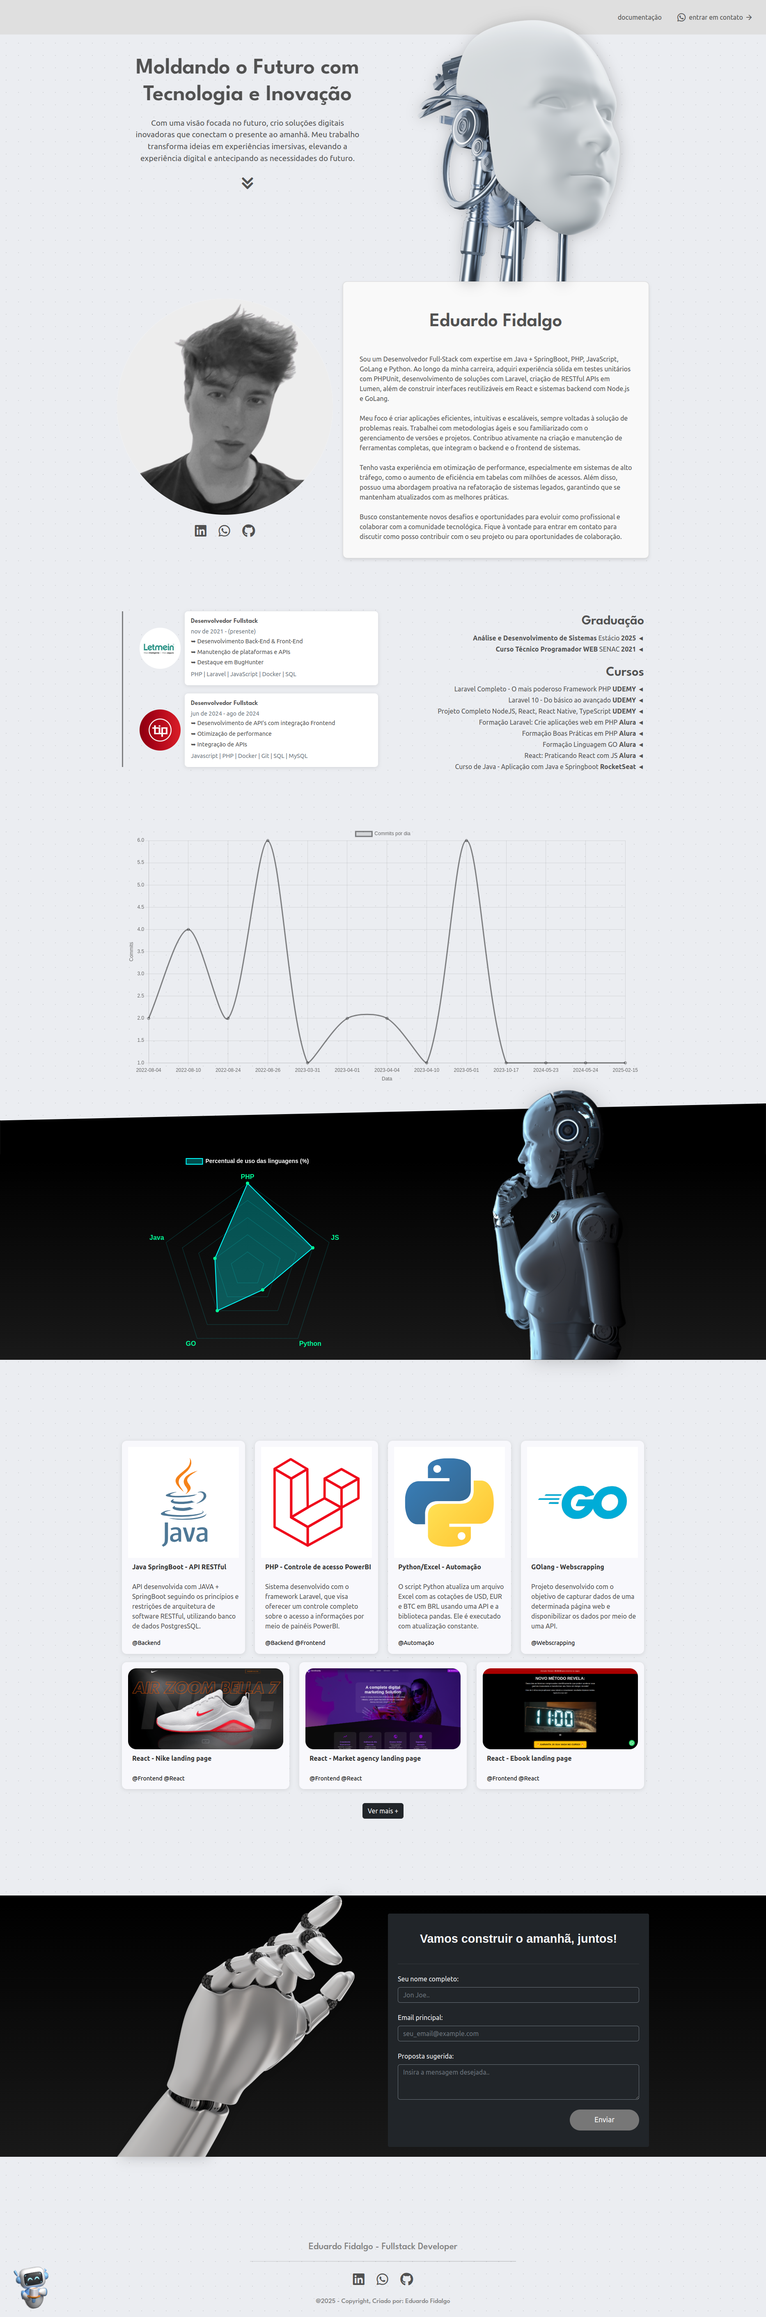
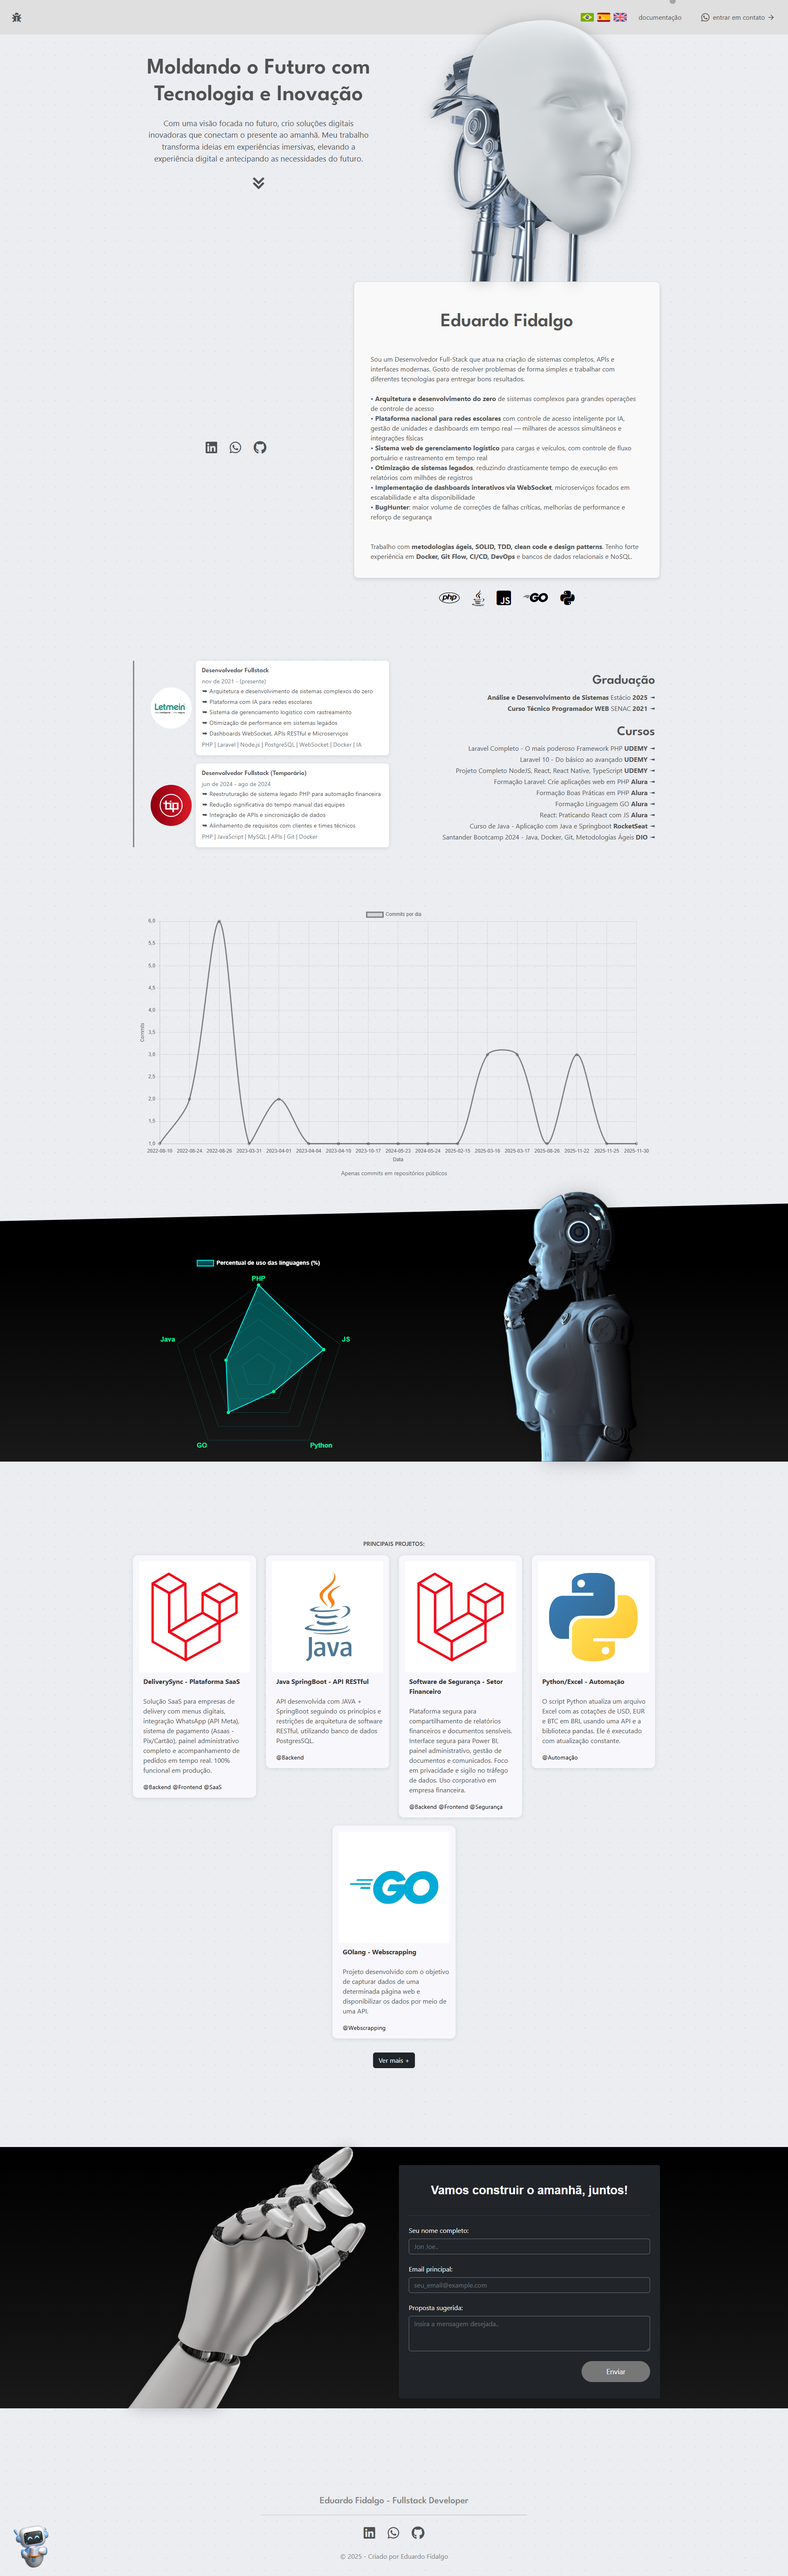
update: improving and updating documentation

diff --git a/documentation.html b/documentation.html
@@ -89,38 +89,59 @@
             <h2 class="section-title">1. Introdução</h2>
             <img src="./preview.png" alt="Preview do Projeto" class="preview-img">
             <p>Este portfólio foi desenvolvido para refletir um design moderno, minimalista e futurista, destacando
-                minha carreira, projetos e habilidades.</p>
+                minha carreira, projetos e habilidades com suporte completo a múltiplos idiomas.</p>
             <p>As principais tecnologias utilizadas foram:</p>
             <ul>
-                <li><strong>Bootstrap 5.3.x</strong> - Para estilização responsiva e componentes.</li>
+                <li><strong>Bootstrap 5.2.3</strong> - Para estilização responsiva e componentes.</li>
                 <li><strong>jQuery 3.6.x</strong> - Para manipulação dinâmica do DOM e interações.</li>
-                <li><strong>CSS</strong> - Para customizações avançadas de estilo.</li>
-                <li><strong>JavaScript</strong> - Para o chatbot interativo e outras funções.</li>
+                <li><strong>Chart.js</strong> - Para visualização de dados em gráficos interativos.</li>
+                <li><strong>GSAP</strong> - Para animações avançadas do cursor customizado.</li>
+                <li><strong>Font Awesome 5.10</strong> - Para ícones e elementos visuais.</li>
+                <li><strong>CSS3 & JavaScript ES6</strong> - Para customizações avançadas e interatividade.</li>
+                <li><strong>Sistema de Tradução Multilíngue</strong> - Suporte para Português, Espanhol e Inglês.</li>
             </ul>
         </section>
 
         <section>
             <h2 class="section-title">2. Instalação</h2>
             <p>Para rodar o projeto localmente, siga os passos abaixo:</p>
-            <pre>git clone https://github.com/seu-repositorio/portfolio.git
-cd portfolio
-open index.html</pre>
+            <pre>git clone https://github.com/EduardoFidalgo/portifolio.git
+cd portifolio
+# Abra o index.html no seu navegador preferido</pre>
+            <p><strong>Nota:</strong> Não é necessário instalar dependências, pois todas as bibliotecas são carregadas via CDN.</p>
         </section>
 
         <section>
             <h2 class="section-title">3. Estrutura do Projeto</h2>
             <p>O projeto segue a seguinte organização:</p>
             <pre>
-portfolio/
-│── index.html  (Página principal)
-│── assets/
-│   ├── css/
-│   │   ├── style.css  (Estilos customizados)
-│   ├── js/
-│   │   ├── script.js  (Interações e chatbot)
-│   ├── img/
-│── preview.png (Imagem de preview do projeto)
-│── README.md  (Documentação do projeto)
+portifolio/
+│── index.html              (Página principal do portfólio)
+│── documentation.html      (Esta documentação)
+│── robots.txt             (Configuração para crawlers)
+│── sitemap.xml            (Mapa do site para SEO)
+│
+│── scripts/
+│   └── scripts.js         (Lógica do chatbot, traduções e gráficos)
+│
+│── styles/
+│   └── styles.css         (Estilos customizados)
+│
+│── img/
+│   ├── robot.svg          (Imagem hero)
+│   ├── strangeRobot.svg   (Imagem radar section)
+│   ├── handGod.svg        (Imagem formulário)
+│   ├── IA.svg             (Ícone do chatbot)
+│   ├── br-icon.png        (Bandeira Brasil)
+│   ├── sp-icon.png        (Bandeira Espanha)
+│   ├── en-icon.png        (Bandeira EUA)
+│   ├── letmein.png        (Logo empresa)
+│   ├── tip.png            (Logo empresa)
+│   ├── LAR.svg            (Ícone Laravel)
+│   ├── JAVA.svg           (Ícone Java)
+│   ├── PY.svg             (Ícone Python)
+│   ├── GO.svg             (Ícone Golang)
+│   └── favicon.png        (Favicon do site)
             </pre>
         </section>
 
@@ -128,32 +149,199 @@ portfolio/
             <h2 class="section-title">4. Funcionalidades</h2>
             <p>Principais recursos do portfólio:</p>
             <ul>
-                <li>📌 <strong>Layout futurista</strong> com design sofisticado.</li>
-                <li>🤖 <strong>Chatbot interativo</strong> para simular entrevistas.</li>
-                <li>⚡ <strong>SEO otimizado</strong> para melhor rankeamento.</li>
-                <li>📱 <strong>Responsivo</strong> para todos os dispositivos.</li>
+                <li>🌍 <strong>Sistema Multilíngue</strong> - Suporte completo para Português, Espanhol e Inglês com persistência de preferência.</li>
+                <li>🤖 <strong>Chatbot Interativo</strong> - Perguntas e respostas predefinidas em 3 idiomas com interface dinâmica.</li>
+                <li>📊 <strong>Gráficos Interativos</strong> - Visualização de commits no GitHub e percentual de uso de linguagens com Chart.js.</li>
+                <li>🎨 <strong>Cursor Customizado</strong> - Animação fluida com GSAP e efeito de múltiplas bolinhas.</li>
+                <li>📱 <strong>Design Responsivo</strong> - Layout adaptável para todos os dispositivos (mobile, tablet, desktop).</li>
+                <li>⚡ <strong>SEO Otimizado</strong> - Meta tags completas, Open Graph, Twitter Cards e sitemap.xml.</li>
+                <li>💾 <strong>LocalStorage</strong> - Salva preferências do usuário (idioma, mensagens visualizadas).</li>
+                <li>📝 <strong>Formulário de Contato</strong> - Integração com Formspree para receber mensagens.</li>
+                <li>🐛 <strong>Sistema de Feedback</strong> - Modal para reportar bugs e sugestões.</li>
+                <li>🎯 <strong>Timeline de Experiência</strong> - Visualização cronológica da carreira profissional.</li>
+                <li>🚀 <strong>Showcasing de Projetos</strong> - Cards interativos com descrição de projetos principais.</li>
             </ul>
         </section>
 
         <section>
-            <h2 class="section-title">5. Customização</h2>
-            <p>Para alterar o esquema de cores, edite o arquivo <code>assets/css/style.css</code>:</p>
+            <h2 class="section-title">5. Sistema de Tradução</h2>
+            <p>O portfólio implementa um sistema completo de internacionalização (i18n) que permite alternar entre 3 idiomas:</p>
+            
+            <h4>5.1. Idiomas Suportados</h4>
+            <ul>
+                <li>🇧🇷 <strong>Português (PT)</strong> - Idioma padrão</li>
+                <li>🇪🇸 <strong>Espanhol (ES)</strong></li>
+                <li>🇺🇸 <strong>Inglês (EN)</strong></li>
+            </ul>
+
+            <h4>5.2. Elementos Traduzidos</h4>
+            <p>Todos os textos principais são traduzidos automaticamente:</p>
+            <ul>
+                <li>✅ Mensagem de loading</li>
+                <li>✅ Mensagem flutuante de feedback</li>
+                <li>✅ Menu de navegação (documentação, contato)</li>
+                <li>✅ Hero section (título e descrição)</li>
+                <li>✅ Seção "Sobre mim"</li>
+                <li>✅ Experiências profissionais (LETMEIN e TIP)</li>
+                <li>✅ Títulos de seções (Graduação, Cursos, Projetos)</li>
+                <li>✅ Descrições dos 5 projetos principais</li>
+                <li>✅ Formulário de contato (labels e botões)</li>
+                <li>✅ Modal de feedback</li>
+                <li>✅ Chatbot (saudação, perguntas e respostas)</li>
+                <li>✅ Gráfico radar (label "Percentual de uso das linguagens")</li>
+                <li>✅ Nota sobre commits públicos</li>
+            </ul>
+
+            <h4>5.3. Como Funciona</h4>
+            <p>O sistema usa atributos HTML customizados e JavaScript:</p>
             <pre>
-                :root {
-                    --primary-color: #6c757d;
-                    --background-color: #f8f9fa;
-                    --text-color: #333;
-                }
+// HTML
+&lt;h1 data-lang="hero-title"&gt;Texto em português&lt;/h1&gt;
+
+// JavaScript - objeto de traduções
+const translations = {
+    pt: { "hero-title": "Moldando o Futuro..." },
+    es: { "hero-title": "Moldeando el Futuro..." },
+    en: { "hero-title": "Shaping the Future..." }
+};
+
+// Função que aplica traduções
+function changeLanguage(lang) {
+    document.querySelectorAll('[data-lang]').forEach(el => {
+        el.innerHTML = translations[lang][el.getAttribute('data-lang')];
+    });
+}
             </pre>
+
+            <h4>5.4. Persistência</h4>
+            <p>A preferência de idioma é salva no <code>localStorage</code> do navegador e aplicada automaticamente nas próximas visitas.</p>
         </section>
 
         <section>
-            <h2 class="section-title">6. SEO e Performance</h2>
-            <p>Para garantir um bom desempenho e ranqueamento, foram aplicadas as seguintes práticas:</p>
+            <h2 class="section-title">6. Chatbot Interativo</h2>
+            <p>O chatbot oferece uma experiência interativa para responder perguntas frequentes sobre habilidades, projetos e experiência.</p>
+            
+            <h4>6.1. Características</h4>
             <ul>
-                <li>✅ Uso de meta tags otimizadas (<code>&lt;meta name="description" ...&gt;</code>).</li>
-                <li>✅ Estrutura semântica do HTML.</li>
-                <li>✅ Código limpo e leve para carregamento rápido.</li>
+                <li>💬 10 perguntas predefinidas em cada idioma</li>
+                <li>🔍 Sistema de busca/filtro de perguntas</li>
+                <li>🎯 Respostas contextualizadas e detalhadas</li>
+                <li>🌐 Totalmente traduzido para PT, ES e EN</li>
+                <li>📱 Interface responsiva com botão flutuante</li>
+            </ul>
+
+            <h4>6.2. Perguntas Disponíveis</h4>
+            <ol>
+                <li>Principais habilidades como desenvolvedor Full-Stack</li>
+                <li>Otimização de performance em sistemas de alto tráfego</li>
+                <li>Metodologias e ferramentas utilizadas</li>
+                <li>Desenvolvimento e manutenção de APIs</li>
+                <li>Automação de processos</li>
+                <li>Tecnologias para Front-End</li>
+                <li>Últimos projetos desenvolvidos</li>
+                <li>Experiência com integrações de sistemas</li>
+                <li>Certificações e formações</li>
+                <li>Links para mais informações</li>
+            </ol>
+        </section>
+
+        <section>
+            <h2 class="section-title">7. Gráficos e Visualizações</h2>
+            
+            <h4>7.1. Gráfico de Commits do GitHub</h4>
+            <p>Exibe um gráfico de linha com a frequência de commits nos últimos dias:</p>
+            <ul>
+                <li>📈 Usa a API do GitHub para buscar commits</li>
+                <li>📊 Renderizado com Chart.js</li>
+                <li>⏱ Atualização em tempo real</li>
+                <li>📝 Nota: "Apenas commits em repositórios públicos" (traduzida)</li>
+            </ul>
+
+            <h4>7.2. Gráfico Radar de Linguagens</h4>
+            <p>Visualização percentual do uso de linguagens de programação:</p>
+            <ul>
+                <li>🎯 PHP: 100%</li>
+                <li>🎯 JavaScript: 80%</li>
+                <li>🎯 GO: 60%</li>
+                <li>🎯 Java: 40%</li>
+                <li>🎯 Python: 30%</li>
+            </ul>
+            <p>O label do gráfico é traduzido automaticamente baseado no idioma selecionado.</p>
+        </section>
+
+        <section>
+            <h2 class="section-title">8. Customização</h2>
+            <p>Ajuste o portfólio ao seu estilo modificando os seguintes arquivos:</p>
+            
+            <h4>8.1. Cores e Estilo Visual</h4>
+            <p>Edite <code>styles/styles.css</code> para personalizar:</p>
+            <ul>
+                <li><strong>Cores principais:</strong> <code>#8a2be2</code> (roxo vibrante), <code>#00d9ff</code> (azul ciano)</li>
+                <li><strong>Gradientes:</strong> Backgrounds com efeito linear gradient</li>
+                <li><strong>Cursor customizado:</strong> Classes <code>.custom-cursor</code> e <code>.cursor-dot</code></li>
+                <li><strong>Animações:</strong> Transitions e hover effects</li>
+                <li><strong>Cards e botões:</strong> Border radius, sombras, glassmorphism</li>
+            </ul>
+
+            <h4>8.2. Conteúdo e Traduções</h4>
+            <p>Edite <code>scripts/scripts.js</code> para modificar:</p>
+            <ul>
+                <li><strong>Objeto translations:</strong> Adicione ou altere textos em PT, ES, EN</li>
+                <li><strong>Chatbot QA:</strong> Modifique perguntas/respostas no objeto <code>chatbotQA</code></li>
+                <li><strong>Dados dos gráficos:</strong> Percentuais do radar chart, fonte de commits</li>
+                <li><strong>Adicionar idioma:</strong> Crie nova chave no objeto translations (ex: <code>fr: {...}</code>)</li>
+            </ul>
+
+            <h4>8.3. Informações Pessoais</h4>
+            <p>Edite <code>index.html</code> para atualizar:</p>
+            <ul>
+                <li>Nome, título profissional e foto de perfil</li>
+                <li>Timeline de experiências profissionais</li>
+                <li>Projetos em destaque (título, descrição, links)</li>
+                <li>Links de redes sociais (LinkedIn, GitHub, etc.)</li>
+                <li>URL do formulário de contato (Formspree ou alternativa)</li>
+            </ul>
+
+            <h4>8.4. Ícones de Idioma</h4>
+            <p>Substitua os ícones em <code>img/</code>:</p>
+            <ul>
+                <li><code>br-icon.png</code> - Bandeira do Brasil (Português)</li>
+                <li><code>sp-icon.png</code> - Bandeira da Espanha (Espanhol)</li>
+                <li><code>en-icon.png</code> - Bandeira dos EUA/UK (Inglês)</li>
+            </ul>
+            <p>Recomendação: Use imagens PNG transparentes de 32x32px ou 48x48px para melhor qualidade.</p>
+        </section>
+
+        <section>
+            <h2 class="section-title">9. SEO e Performance</h2>
+            <p>Para garantir um bom desempenho e ranqueamento, foram aplicadas as seguintes práticas:</p>
+            
+            <h4>9.1. Otimizações de SEO</h4>
+            <ul>
+                <li>✅ <strong>Meta Tags Completas:</strong> Description, keywords, author e Open Graph.</li>
+                <li>✅ <strong>Sitemap.xml:</strong> Mapeamento completo das páginas do site.</li>
+                <li>✅ <strong>Robots.txt:</strong> Configuração para crawlers de busca.</li>
+                <li>✅ <strong>Estrutura Semântica:</strong> HTML5 com tags apropriadas (header, nav, section, footer).</li>
+                <li>✅ <strong>Multilíngue:</strong> Suporte a 3 idiomas amplia o alcance internacional.</li>
+                <li>✅ <strong>Twitter Cards:</strong> Meta tags para compartilhamento otimizado.</li>
+            </ul>
+
+            <h4>9.2. Performance</h4>
+            <ul>
+                <li>⚡ <strong>CDN para bibliotecas:</strong> Bootstrap, jQuery, Chart.js e GSAP via CDN para cache global.</li>
+                <li>⚡ <strong>Minificação:</strong> Arquivos CSS e JS podem ser minificados para produção.</li>
+                <li>⚡ <strong>Lazy Loading:</strong> Imagens carregadas sob demanda quando possível.</li>
+                <li>⚡ <strong>LocalStorage:</strong> Reduz requisições ao salvar preferências localmente.</li>
+                <li>⚡ <strong>Chart.js Otimizado:</strong> Gráficos renderizados com canvas para alta performance.</li>
+                <li>⚡ <strong>GSAP Hardware Acceleration:</strong> Animações com GPU para suavidade máxima.</li>
+            </ul>
+
+            <h4>9.3. Boas Práticas</h4>
+            <ul>
+                <li>📱 Design mobile-first com breakpoints responsivos</li>
+                <li>♿ Acessibilidade com labels descritivos e contraste adequado</li>
+                <li>🔒 HTTPS recomendado para produção</li>
+                <li>🌍 Suporte a múltiplos idiomas melhora UX internacional</li>
             </ul>
         </section>
 
